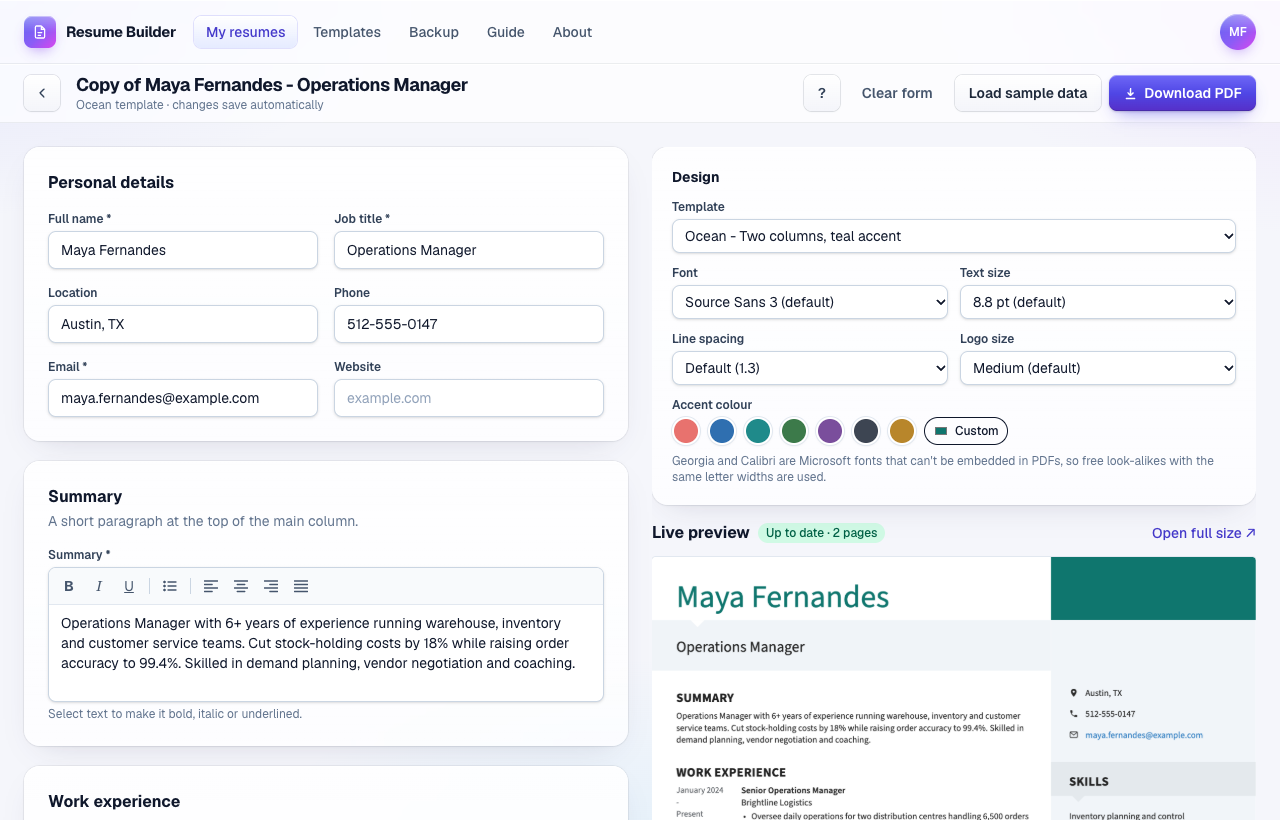
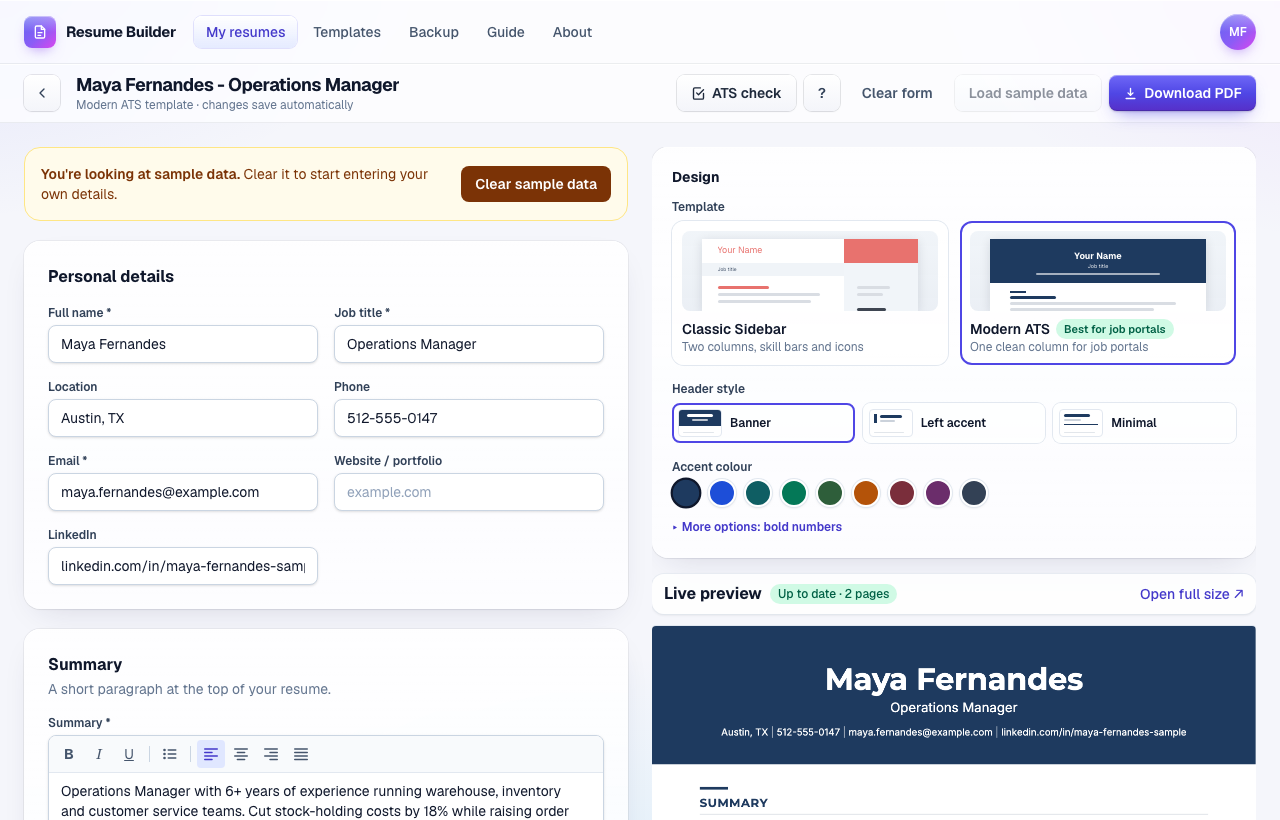
Update README, CONTRIBUTING and screenshots for the new features
- README: ATS check section (readability, structure, job match, content
  tips, spelling), spell check as you type, nine Modern ATS colours,
  privacy of job descriptions and dictionaries, new commands
  (preview:pages, test:e2e:pages), what the deploy workflow checks, and
  the current project structure.
- CONTRIBUTING: test against the GitHub Pages build; the ATS check must
  stay on-device; where to tune the ATS word lists.
- Screenshots retaken from the GitHub Pages build (sample data only),
  plus a new ATS check screenshot.

diff --git a/README.md b/README.md
@@ -6,22 +6,23 @@ Build a clean, professional resume in your browser and download it as a **text-b
 
 ![My resumes page](docs/screenshots/home.png)
 
-![Editor with live PDF preview](docs/screenshots/editor.png)
+![Editor with the Modern ATS template and live PDF preview](docs/screenshots/editor.png)
 
 ## Features
 
 - **Live preview**: every page of the PDF updates as you type.
-- **2 templates** that share the same content, so you can switch any time without losing anything (see [Templates](#templates)).
+- **2 templates** that share the same content, so you can switch any time without losing anything: **Classic Sidebar** and **Modern ATS** (see [Templates](#templates)).
+- **ATS check**: reads your real PDF back the way a resume scanner does, compares it with a job description, and gives content and spelling tips (see [ATS check](#ats-check)).
+- **Spell check as you type**: red wavy underlines with suggestions, using English dictionaries (US and UK spellings both accepted), on your device.
 - **Rich text** in the Summary and job descriptions: bold, italic, underline, bullet lists, alignment.
-- **Design controls**: font (Source Sans 3, Inter, Roboto, Gelasio, Carlito), text size, line spacing, logo size and accent colour (Classic Sidebar); five professional colours (Modern ATS).
+- **Design controls**: font (Source Sans 3, Inter, Roboto, Gelasio, Carlito), text size, line spacing, logo size and any accent colour (Classic Sidebar); header style, nine professional colours and bold metrics (Modern ATS).
 - **Optional sections**: Projects, Certifications, a LinkedIn link and a city per job; they only appear in the PDF when filled in.
 - **Work experience** sorted latest-first or oldest-first, with optional **company logos** (PNG/JPG/SVG or image URL).
 - **Skill groups** with 1-10 rating bars, and **languages** with proficiency levels.
 - **Starts with an example**: a new resume is filled with sample content so the preview shows the template properly. A banner offers **Clear sample data**, cards show a **Sample** badge, and downloading warns if example details (name, email, phone…) are still in the resume.
 - **Clear form** with a confirmation and **Undo**; grey hints in the preview (never in the PDF) while fields are empty.
-- **ATS check** (in the editor): reads the real PDF back the way a resume scanner does and checks readability (every word, reading order, headings, no text in images) and structure (contact details, complete jobs, consistent dates, length, summary), plus **job match** against a pasted job description (keywords found and missing, synonyms and word forms, job title, over-use). Plus **content tips** (numbers in bullets, weak openings, long or repeated bullets, clichés, personal details) and a **spell check** with English dictionaries (US and UK spellings both accepted), each dismissible. The same spell check draws red wavy underlines in the form, with suggestions on click. Runs entirely in the browser; nothing is uploaded. The skills dictionary, synonyms and filler words are editable JSON files in `src/data/ats/`.
 - **Many resumes**: search, sort, copy, rename, delete; everything auto-saves.
-- **Backup file**: export all resumes to one file and import it on any browser or computer.
+- **Backup file**: export all resumes (including their ATS check settings) to one file and import it on any browser or computer.
 - Clear validation messages, keyboard-friendly menus and dialogs, and a built-in **user guide** (`/guide`).
 
 ## Templates
@@ -40,9 +41,22 @@ Modern ATS follows common ATS rules: one column (text in the file is in reading 
 
 Resumes saved before templates were reorganised open automatically: Coral, Slate and Ocean become **Classic Sidebar** (same look, same colour) and Minimal becomes **Modern ATS**.
 
+## ATS check
+
+Click **ATS check** in the editor. A panel shows a summary such as *Readability: Passed · Structure: 1 warning - no LinkedIn · Job match: 14 of 19 keywords · Content tips: 1 tip*, and three tabs. There is deliberately no single "ATS score": ATS differ between companies, so every result is a clear, explainable check. Each problem says why it matters, and **Go to field** takes you to the field to fix. Everything runs on your device.
+
+![ATS check panel with job match results](docs/screenshots/ats-check.png)
+
+- **Readability**: builds the real PDF and reads it back. Every word must come out exactly as typed (and every character's letter mapping must be valid), in the right reading order, with standard section headings and no text only in images. Classic Sidebar gets a warning that two-column layouts can be read out of order, with a **Switch to Modern ATS** button.
+- **Structure**: name, email, phone, city and LinkedIn; every job has a title, company and dates; one date style throughout (e.g. not "Sept 2017" next to "Oct 2022"); most recent job first; 1–2 pages; a 40–120 word summary; the file name Download will use.
+- **Job match**: paste a job description (and, optionally, a target job title). You see *Keyword match: X of Y*, where each keyword was found (Summary, Skills, Experience…), and which are missing. Matching ignores case and word forms (test, tests, testing) and treats synonyms and acronyms as equal (CI/CD = continuous integration, JS = JavaScript). Remove keywords that don't matter or add your own; there's also a job-title check and a keyword over-use warning.
+- **Content tips**: bullets without numbers, weak openings like "Responsible for" (with stronger verbs), long bullets, too few or too many bullets per job, the same opening verb again and again, clichés without evidence, personal details you can leave out (date of birth, marital status, full address), and **spelling** with suggestions. Tips can be dismissed and spelling mistakes ignored, per resume.
+
+The skills dictionary, synonyms, filler words and extra spelling words are editable JSON files in `src/data/ats/`.
+
 ## Privacy
 
-Resumes are stored in the browser's `localStorage` and PDFs are created on your device; resume content is never uploaded. The only network request to another site happens when you paste a logo *URL*, to fetch that image. Clearing browsing data deletes your resumes, so use **Export backup** to keep a copy.
+Resumes are stored in the browser's `localStorage` and PDFs are created on your device; resume content is never uploaded. The ATS check runs in the browser too: the job description you paste and your keyword choices are saved with the resume on your device (and in your backup file), never sent anywhere. Fonts and spelling dictionaries are served by the app itself. The only network request to another site happens when you paste a logo *URL*, to fetch that image. Clearing browsing data deletes your resumes, so use **Export backup** to keep a copy.
 
 ## Run it locally
 
@@ -62,17 +76,19 @@ Then open http://localhost:3000.
 | `npm install` | Install dependencies (also copies the pdf.js worker and the spelling dictionaries into `public/`) |
 | `npm run dev` | Development server at http://localhost:3000, reloads on save |
 | `npm run build` | Production build (also type-checks the project) |
-| `npm run build:pages` | Static build for GitHub Pages into `out/` (served from `/resume-builder/`) |
+| `npm run build:pages` | Static build for GitHub Pages into `out/` (served from `/resume-builder/`), the same build the deploy workflow makes |
+| `npm run preview:pages` | Serve that `out/` build like GitHub Pages does, at http://localhost:4173/resume-builder/, to test the live site locally |
 | `npm run lint` | Check the code with ESLint |
-| `npm test` | PDF tests: render the sample resume with both templates and read the text back like an ATS (spelling, headings, reading order, dates, page breaks); sample mode, Clear form and loading of older saves |
-| `npm run test:e2e` | Browser tests with [Playwright](https://playwright.dev/): build the app, create a resume, switch templates, download the PDF. First time: `npx playwright install chromium` |
+| `npm test` | Unit and PDF tests: renders resumes with both templates and reads the text back like an ATS (every character, headings, reading order, dates, page breaks), plus the ATS check, job match, content tips, spell check, sample mode and loading of older saves |
+| `npm run test:e2e` | Browser tests with [Playwright](https://playwright.dev/) against a production build: templates, sample data, ATS check, spelling underlines, downloads, and that no resume text is sent anywhere. First time: `npx playwright install chromium` |
+| `npm run test:e2e:pages` | The same browser tests against the GitHub Pages build (static export under `/resume-builder/`) |
 | `npm run pdf:sample -- out.pdf [long\|styled\|features\|ats\|ats-long]` | Render the sample resume straight to a PDF file, no browser needed |
 
 ## Deployment
 
-Every push to `main` builds a static version of the app and publishes it to GitHub Pages via [`.github/workflows/deploy.yml`](.github/workflows/deploy.yml). One-time setup in the repository: **Settings → Pages → Build and deployment → Source: GitHub Actions**.
+Every push to `main` runs [`.github/workflows/deploy.yml`](.github/workflows/deploy.yml): lint, the unit/PDF tests and the browser tests, then a static build published to GitHub Pages. If any step fails, nothing is published. One-time setup in the repository: **Settings → Pages → Build and deployment → Source: GitHub Actions**.
 
-The static build (`STATIC_EXPORT=1`) works because everything happens in the browser. Files in `public/` (fonts, the pdf.js worker) are referenced through `publicUrl()` in `src/lib/basePath.ts` so they also work under the `/resume-builder/` sub-path.
+The static build (`STATIC_EXPORT=1`, `PAGES_BASE_PATH=/resume-builder`) works because everything happens in the browser. Files in `public/` (fonts, the pdf.js worker, spelling dictionaries) are referenced through `publicUrl()` in `src/lib/basePath.ts` so they also work under the `/resume-builder/` sub-path. To try exactly what will be published: `npm run build:pages && npm run preview:pages`.
 
 ## Project structure
 
@@ -81,10 +97,14 @@ src/
   app/                    Pages: / (my resumes), /edit?id=…, /guide, /about
   components/
     home/                 My resumes page: cards, ⋯ menu, rename window
-    editor/               Editor page: toolbar, auto-save, download
+    editor/               Editor page: toolbar, auto-save, download, sample-data banner
     form/                 Form sections, rich-text editor, logo upload
+    ats/                  ATS check panel: readability, job match and content tips tabs
+    spell/                Spelling underlines in the form (shared spell check, suggestions menu)
     LivePanel.tsx         Design panel + live PDF preview
+    ConfirmDialog.tsx     Yes/no dialogs (Clear form, download warnings…)
     AppHeader.tsx         Top bar shared by all pages
+  data/ats/               Editable lists: skills, synonyms, filler words, extra spelling words
   lib/
     schema.ts             Data shape + all validation rules (Zod)
     library.ts            Saved resumes: create, rename, copy, delete, backup, upgrades of old data
@@ -93,22 +113,28 @@ src/
     experienceSort.ts     Date parsing and job ordering
     theme.ts, templates.ts  Design options and templates
     sampleMode.ts         New resumes start as the sample; sample detection; what Clear leaves
-    ats/                  ATS check: readability and structure checks (pure functions), summary line
+    metrics.ts            Finds metrics (40%, $140K…) for Modern ATS bold numbers
+    ats/                  ATS check rules (pure functions): readability, structure, keywords, tips, summary line
+    spell/                Spell check: which words to check, the checker (nspell), background worker
     pdfText.ts            Reads a PDF back as text, plus byte-level checks (shared by the ATS check and the tests)
   pdf/
     ResumeDocument.tsx    Picks the template; the Classic Sidebar PDF layout
     ModernAtsDocument.tsx The Modern ATS PDF layout
     shared.tsx            Helpers both layouts use (e.g. ligatures off, see below)
+    fonts.ts              Font registration + the glyph cache repair (see below)
     placeholders.ts       Grey hint text for empty fields (on-screen preview only)
 public/fonts/             Fonts embedded in the PDF (SIL Open Font License 1.1)
-scripts/render-sample.mts Render the sample resume to a PDF from the command line
-tests/                    PDF tests (Node's built-in test runner + pdf.js text extraction)
+scripts/
+  render-sample.mts       Render the sample resume to a PDF from the command line
+  serve-pages.mjs         Serve the GitHub Pages build locally (npm run preview:pages)
+  copy-assets.mjs         Copies the pdf.js worker and dictionaries into public/ (runs after npm install)
+tests/                    Unit and PDF tests (Node's built-in test runner + pdf.js text extraction)
 e2e/                      Browser tests (Playwright)
 ```
 
 ## Built with
 
-[Next.js](https://nextjs.org/), [React](https://react.dev/), [@react-pdf/renderer](https://react-pdf.org/), [pdf.js](https://mozilla.github.io/pdf.js/), [Tiptap](https://tiptap.dev/), [React Hook Form](https://react-hook-form.com/), [Zod](https://zod.dev/) and [Tailwind CSS](https://tailwindcss.com/).
+[Next.js](https://nextjs.org/), [React](https://react.dev/), [@react-pdf/renderer](https://react-pdf.org/), [pdf.js](https://mozilla.github.io/pdf.js/), [Tiptap](https://tiptap.dev/), [React Hook Form](https://react-hook-form.com/), [Zod](https://zod.dev/) and [Tailwind CSS](https://tailwindcss.com/). Tests: Node's test runner and [Playwright](https://playwright.dev/).
 
 Fonts: Source Sans 3, Inter, Roboto, Gelasio, Carlito and Montserrat, all under the SIL Open Font License 1.1. Gelasio and Carlito are metric-compatible alternatives to Georgia and Calibri, which can't be embedded.
 
@@ -118,10 +144,11 @@ Spell check: [nspell](https://github.com/wooorm/nspell) (MIT) with the Hunspell 
 
 - **A CSS change (e.g. in `src/app/globals.css`) doesn't show up while `npm run dev` is running:** stop the dev server (`Ctrl + C`) and start it again. With this project's Tailwind setup the dev server sometimes keeps serving the old stylesheet; production builds are not affected.
 - **Some characters are missing in the PDF:** the bundled fonts cover Latin-alphabet languages only.
+- **Spelling isn't checked ("The spelling dictionary couldn't be loaded"):** the dictionaries are copied into `public/dictionaries/` by `npm install`; run it again if that folder is missing.
 - **Why are ligatures turned off?** Most fonts draw letter pairs like "ft", "ff" and "ffi" as one combined shape. Many ATS parsers then read only the first letter ("Software" becomes "Sofware"), which breaks keyword search. Both templates draw each letter separately; the layout is unchanged.
 - **Why is kerning off in Modern ATS body text?** Inter's kerning tucks a full stop under a 7, so "97.1%" looked like "971%" and some extractors split it. Without kerning every character keeps its normal width. Heading letter spacing is also kept small (under 0.1 em) because wider spacing makes extractors read "S U M M A R Y".
 - **Why does every PDF render call `repairGlyphCache()`?** It works around a bug in the font library (fontkit): after one PDF was made, a later PDF in the same browser session could get an empty entry in its glyph-to-letter map (typically for a curly apostrophe ’), and many text extractors and ATS then read the following letters wrongly ("REST" as "&EST"). See `src/pdf/fonts.ts`; `tests/roundtrip.test.tsx` and `e2e/text-layer.spec.ts` guard it.
-- **`npm run test:e2e` says another server is running:** it uses port 3100. Stop whatever is using that port, or leave it if it's an up-to-date `next start` of this project (it will be reused).
+- **`npm run test:e2e` says another server is running:** it uses port 3100 (`test:e2e:pages` uses 4173). Stop whatever is using that port, or leave it if it's an up-to-date server for this project (it will be reused).
 
 ## Contributing
 

diff --git a/CONTRIBUTING.md b/CONTRIBUTING.md
@@ -26,6 +26,7 @@ Open an issue and include:
    npm run test:e2e      # browser tests (first time: npx playwright install chromium)
    npm run build
    npm run build:pages   # the static version published to GitHub Pages
+   npm run test:e2e:pages   # browser tests against that static version
    ```
 5. If you changed the PDF layout, render a sample and look at it:
    ```bash
@@ -35,7 +36,8 @@ Open an issue and include:
 
 ## Ground rules
 
-- Resume data must stay on the user's device. Don't add tracking, analytics or uploads.
+- Resume data must stay on the user's device. Don't add tracking, analytics or uploads. This includes the ATS check: job descriptions, keyword matching and spell checking all run in the browser, and assets (fonts, dictionaries) are served by the app itself.
 - Keep the PDF text-based (no images of text), so job portals can read it.
 - New fonts must allow embedding (for example the SIL Open Font License).
+- To tune the ATS check (skills, synonyms, filler words, extra spelling words), edit the JSON files in `src/data/ats/` and add a test.
 - By contributing, you agree that your contribution is licensed under the [MIT License](LICENSE).
